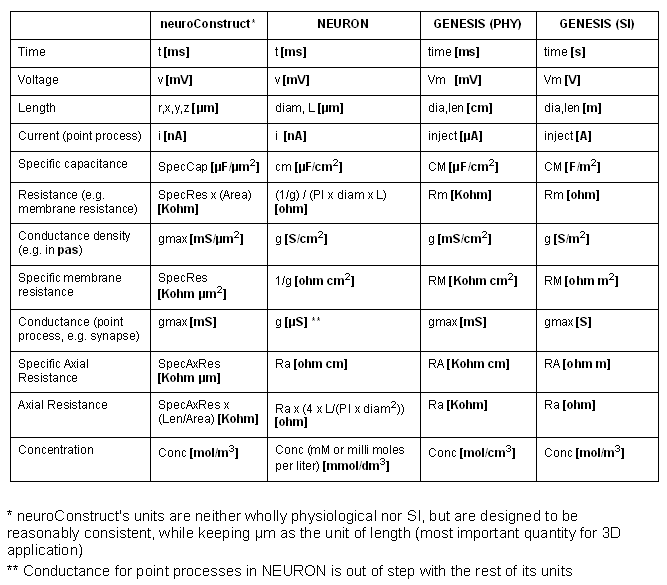
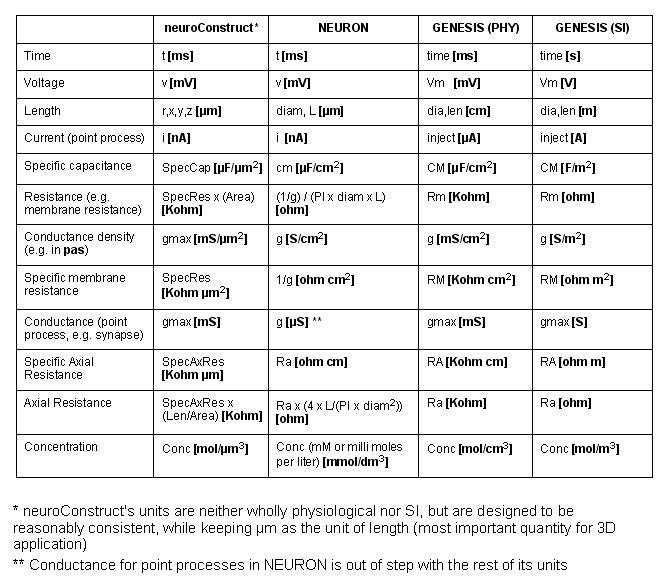
Minor updates & Units fixed

Changed region(s): [[0.0, 0.0, 0.9895, 0.8308], [0.0, 0.8615, 0.9295, 0.9846]]

diff --git a/src/ucl/physiol/neuroconstruct/j3D/Main3DPanel.java b/src/ucl/physiol/neuroconstruct/j3D/Main3DPanel.java
@@ -320,12 +320,16 @@ public class Main3DPanel extends Base3DPanel implements SimulationInterface
         for (int cellGroupIndex = 0; cellGroupIndex < allCellGroups.size(); cellGroupIndex++)
         {
             String nextCellGroup = allCellGroups.get(cellGroupIndex);
-            Cell cell = project.cellManager.getCell(project.cellGroupsInfo.getCellType(nextCellGroup));
+            
+            if (project.generatedCellPositions.getNumberInCellGroup(nextCellGroup)>0)
+            {                
+                Cell cell = project.cellManager.getCell(project.cellGroupsInfo.getCellType(nextCellGroup));
 
-            //logger.logComment("cell: "+ cell, true);
-            largestExtent = Math.max(largestExtent, CellTopologyHelper.getXExtentOfCell(cell, false, true));
-            largestExtent = Math.max(largestExtent, CellTopologyHelper.getYExtentOfCell(cell, false, true));
-            largestExtent = Math.max(largestExtent, CellTopologyHelper.getZExtentOfCell(cell, false, true));
+                //logger.logComment("cell: "+ cell, true);
+                largestExtent = Math.max(largestExtent, CellTopologyHelper.getXExtentOfCell(cell, false, true));
+                largestExtent = Math.max(largestExtent, CellTopologyHelper.getYExtentOfCell(cell, false, true));
+                largestExtent = Math.max(largestExtent, CellTopologyHelper.getZExtentOfCell(cell, false, true));
+            }
         }
         logger.logComment("Largest extent for cells too: "+ largestExtent);
 
@@ -2160,28 +2164,31 @@ public class Main3DPanel extends Base3DPanel implements SimulationInterface
             String nextCellGroup = allCellGroups.get(cellGroupIndex);
             Cell cell = project.cellManager.getCell(project.cellGroupsInfo.getCellType(nextCellGroup));
 
-            float lowestXOnCell = CellTopologyHelper.getMinXExtent(cell, false, true);
-            float lowestYOnCell = CellTopologyHelper.getMinYExtent(cell, false, true);
-            float lowestZOnCell = CellTopologyHelper.getMinZExtent(cell, false, true);
+            if (project.generatedCellPositions.getNumberInCellGroup(nextCellGroup)>0)
+            {    
+                float lowestXOnCell = CellTopologyHelper.getMinXExtent(cell, false, true);
+                float lowestYOnCell = CellTopologyHelper.getMinYExtent(cell, false, true);
+                float lowestZOnCell = CellTopologyHelper.getMinZExtent(cell, false, true);
 
-            float highestXOnCell = CellTopologyHelper.getMaxXExtent(cell, false, true);
-            float highestYOnCell = CellTopologyHelper.getMaxYExtent(cell, false, true);
-            float highestZOnCell = CellTopologyHelper.getMaxZExtent(cell, false, true);
+                float highestXOnCell = CellTopologyHelper.getMaxXExtent(cell, false, true);
+                float highestYOnCell = CellTopologyHelper.getMaxYExtent(cell, false, true);
+                float highestZOnCell = CellTopologyHelper.getMaxZExtent(cell, false, true);
 
 
-            int numInGroup = project.generatedCellPositions.getNumberInCellGroup(nextCellGroup);
+                int numInGroup = project.generatedCellPositions.getNumberInCellGroup(nextCellGroup);
 
-            for (int cellNumber = 0; cellNumber < numInGroup; cellNumber++)
-            {
-                Point3f nextPosition = project.generatedCellPositions.getOneCellPosition(nextCellGroup, cellNumber);
-                lowestXToShow =  Math.min(lowestXToShow, nextPosition.x + lowestXOnCell);
-                lowestYToShow =  Math.min(lowestYToShow, nextPosition.y + lowestYOnCell);
-                lowestZToShow =  Math.min(lowestZToShow, nextPosition.z + lowestZOnCell);
+                for (int cellNumber = 0; cellNumber < numInGroup; cellNumber++)
+                {
+                    Point3f nextPosition = project.generatedCellPositions.getOneCellPosition(nextCellGroup, cellNumber);
+                    lowestXToShow =  Math.min(lowestXToShow, nextPosition.x + lowestXOnCell);
+                    lowestYToShow =  Math.min(lowestYToShow, nextPosition.y + lowestYOnCell);
+                    lowestZToShow =  Math.min(lowestZToShow, nextPosition.z + lowestZOnCell);
 
-                highestXToShow =  Math.max(highestXToShow, nextPosition.x + highestXOnCell);
-                highestYToShow =  Math.max(highestYToShow, nextPosition.y + highestYOnCell);
-                highestZToShow =  Math.max(highestZToShow, nextPosition.z + highestZOnCell);
+                    highestXToShow =  Math.max(highestXToShow, nextPosition.x + highestXOnCell);
+                    highestYToShow =  Math.max(highestYToShow, nextPosition.y + highestYOnCell);
+                    highestZToShow =  Math.max(highestZToShow, nextPosition.z + highestZOnCell);
 
+                }
             }
         }
 

diff --git a/src/ucl/physiol/neuroconstruct/gui/SwcImportOptions.java b/src/ucl/physiol/neuroconstruct/gui/SwcImportOptions.java
@@ -92,7 +92,7 @@ public class SwcImportOptions extends JDialog
         
         
         jTextAreaInfo.setText("Some options when importing the SWC format morphology.\n\n"
-                +"Note: As Cvapp is mainly concerned with dendritic reconstructions, there can be varying levels of information present about the soma in such files."
+                +"Note: As Cvapp is mainly concerned with dendritic reconstructions, there may be a limited amount of information present about the soma in such files."
                 +"The second entry on each line of the *.swc file indicates what type of compartment it is. 1 usually indicates soma, 2 axons, 3 dendrites, etc.\n\n"
                 +"Close examination of the original file is advised to correctly import the morphology."
                 +"");
@@ -110,7 +110,8 @@ public class SwcImportOptions extends JDialog
         jPanelFeatures.setPreferredSize(new Dimension(350, 40));
 
         jTextAreaFeatures.setText("If extra anatomical detail is present in the file (e.g. from Neurolucida extra features) include if this box is ticked. "
-                +"Note: lines with compartment type 10 or greater (second value in 7 entry SWC line) will be considered anatomical features.");
+                +"Note: lines with compartment type 10 or greater (second value in 7 entry SWC line) will be considered anatomical features. These will be included as sections, " +
+                "and should be removed if the cells are to be used for simulations.");
 
         jTextAreaFeatures.setColumns(26);
         jTextAreaFeatures.setLineWrap(true);

diff --git a/src/ucl/physiol/neuroconstruct/utils/units/UnitConverter.java b/src/ucl/physiol/neuroconstruct/utils/units/UnitConverter.java
@@ -285,10 +285,6 @@ public class UnitConverter
                           {new Unit(Prefix.MILLI, Units.MOLE, 1),
                           new Unit(Prefix.DECI, Units.METER, -3)}), // NEURON uses mM i.e. milli moles per liter
 
-               /* new Units("NEURON_concentration"
-                          , new Unit[]
-                          {new Unit(Prefix.MILLI, Units.MOLE, 1),
-                          new Unit(Prefix.DECI, Units.METER, -3)}),*/
                 new Units("GENESIS_SI_concentration"
                           , new Unit[]
                           {new Unit(Prefix.NONE, Units.MOLE, 1),
@@ -743,8 +739,8 @@ public class UnitConverter
                                                                       UnitConverter.GENESIS_PHYSIOLOGICAL_UNITS) + "\n");
 
 
-        int fromUnits = NEUROCONSTRUCT_UNITS;
-        PhysicalQuantity concn = new PhysicalQuantity(1, concentrationUnits[fromUnits]);
+        int fromUnits = GENESIS_SI_UNITS;
+        PhysicalQuantity concn = new PhysicalQuantity(0.002, concentrationUnits[fromUnits]);
 
         System.out.println("Concentration: "+ concn);
 

diff --git a/src/ucl/physiol/neuroconstruct/gui/EditGroupCellDensMechAssociations.java b/src/ucl/physiol/neuroconstruct/gui/EditGroupCellDensMechAssociations.java
@@ -972,9 +972,15 @@ public class EditGroupCellDensMechAssociations extends JDialog implements ListSe
                     String suggestedValue = null;
                     if (cellMech instanceof AbstractedCellMechanism)
                     {
-                        suggestedValue = ( (AbstractedCellMechanism) cellMech).getParameter(DistMembraneMechanism.
-                            COND_DENSITY)
-                            + "";
+                        try
+                        {
+                            suggestedValue = ( (AbstractedCellMechanism) cellMech).getParameter(DistMembraneMechanism.COND_DENSITY)+ "";
+                        }
+                        catch (CellMechanismException ex)
+                        {
+                            logger.logComment("Problem getting default value, using 0");
+                            suggestedValue = "0";
+                        }
                     }
                     else if (cellMech instanceof ChannelMLCellMechanism)
                     {
